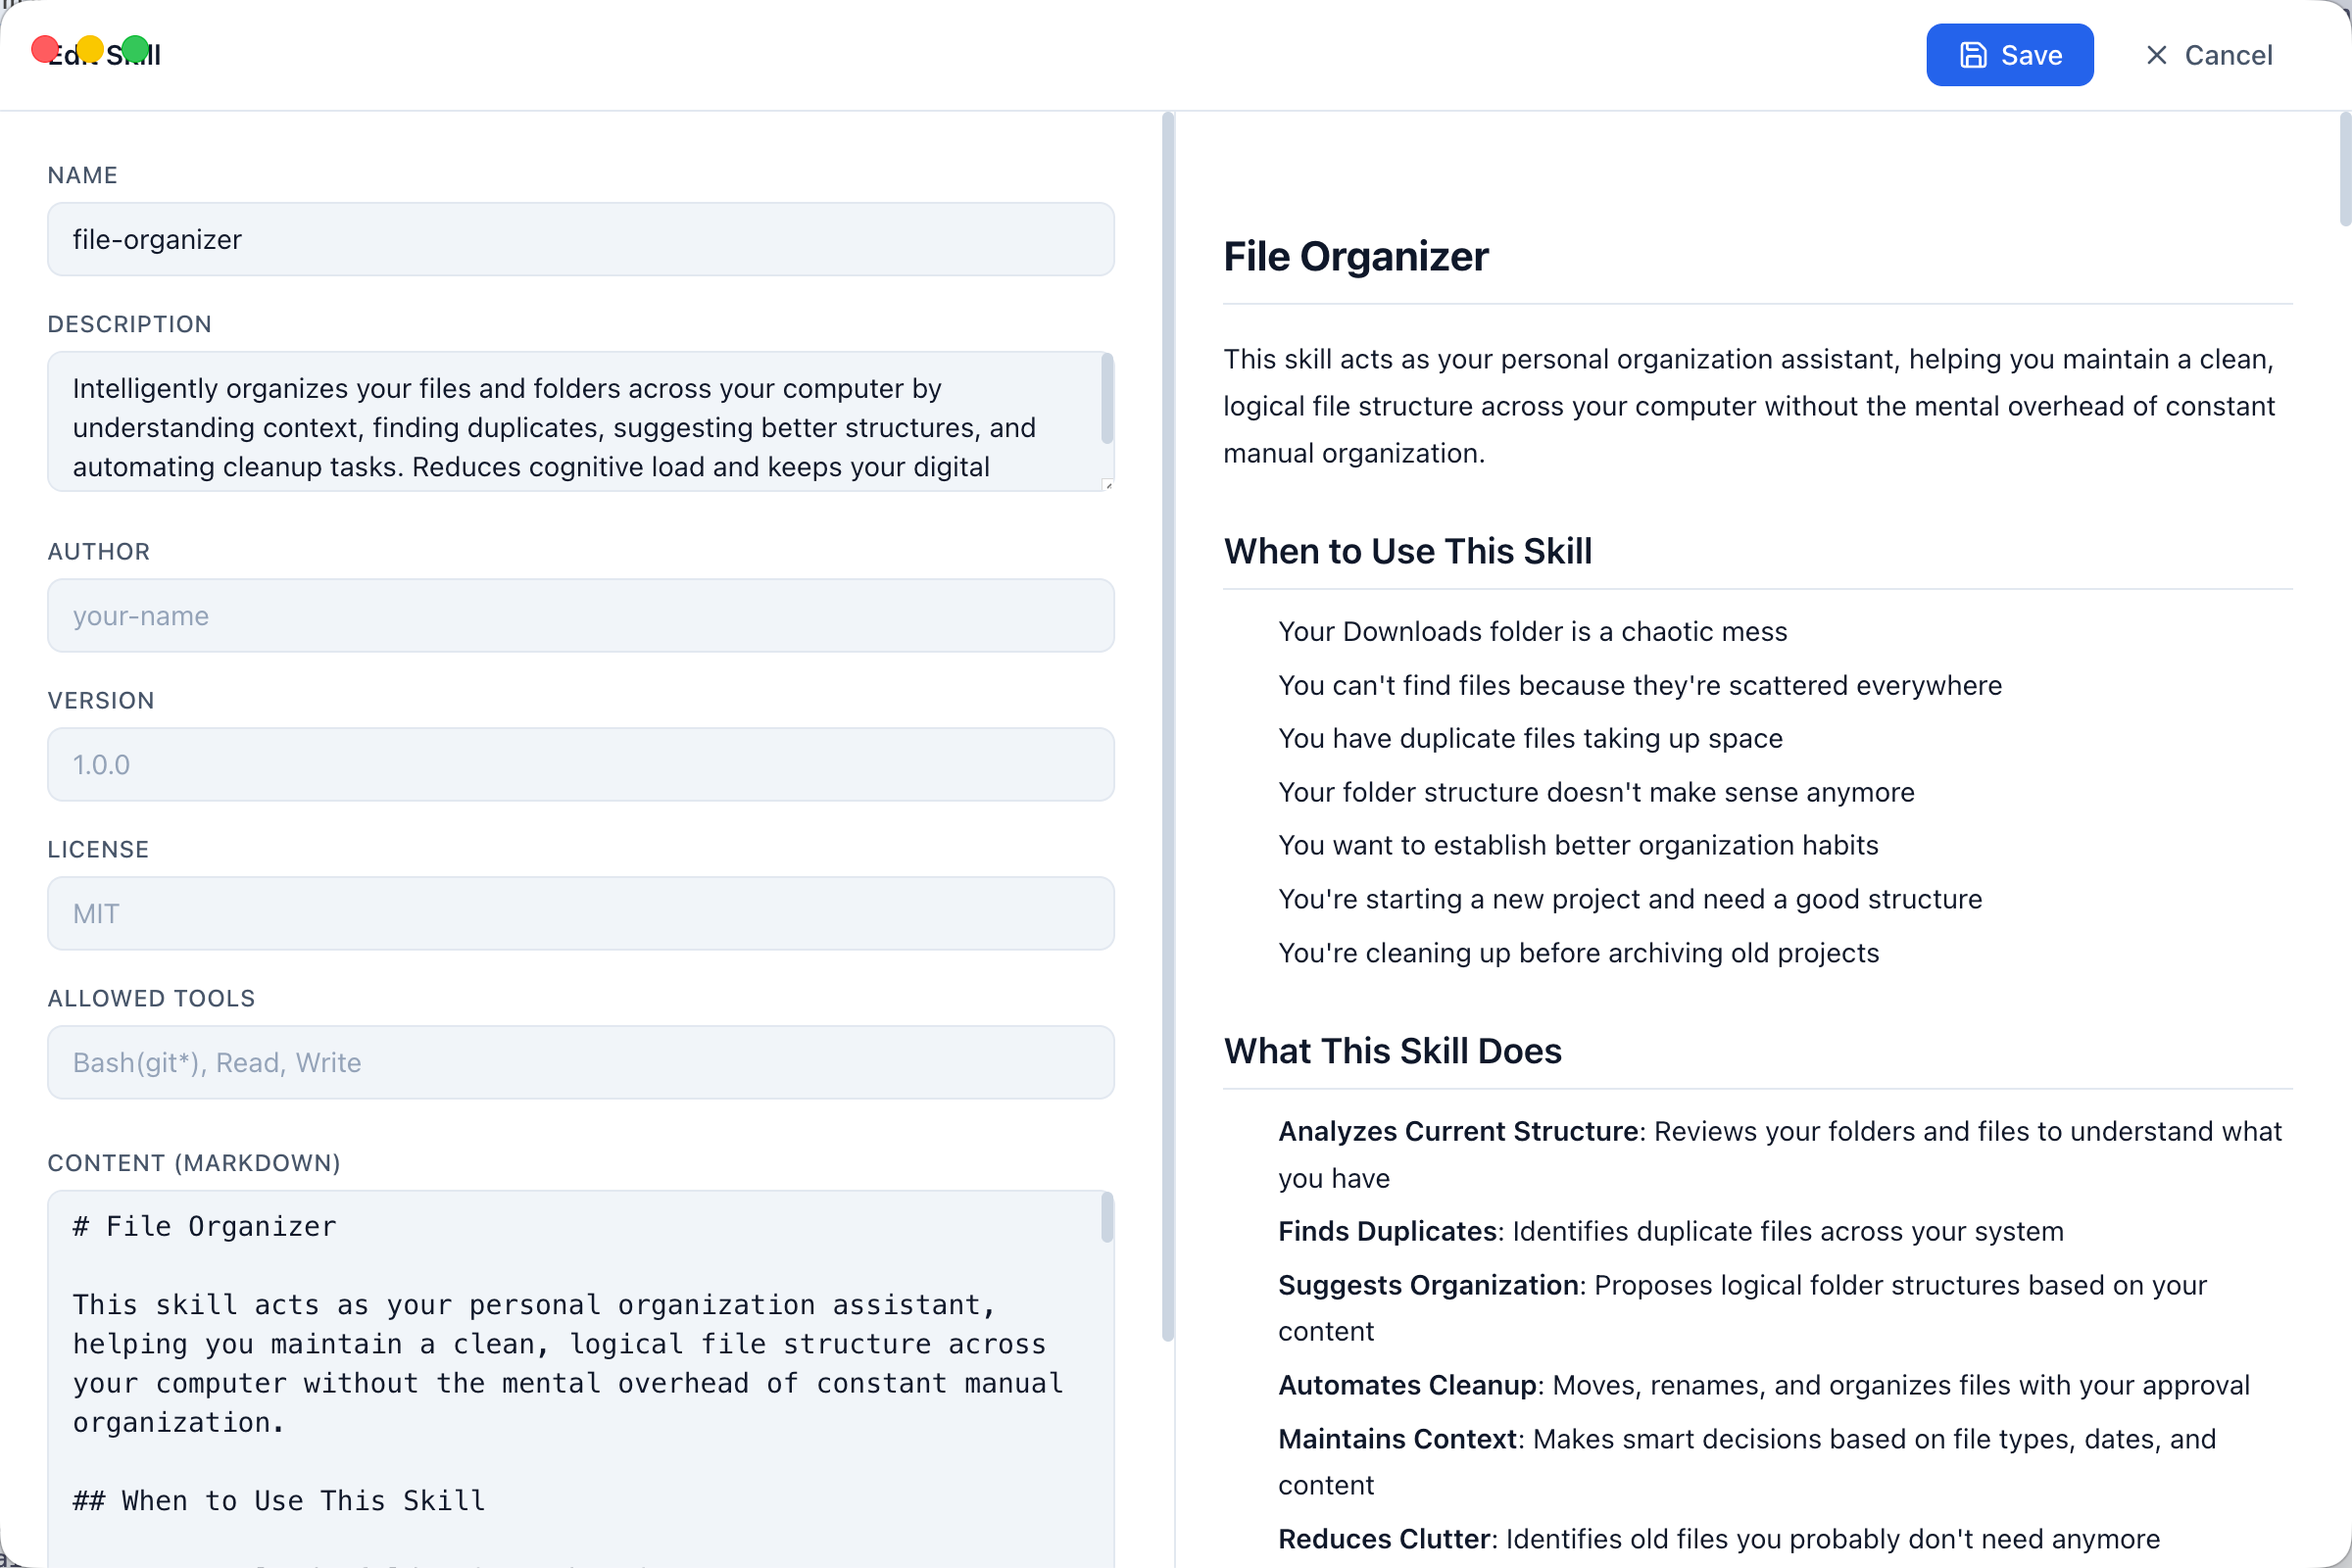
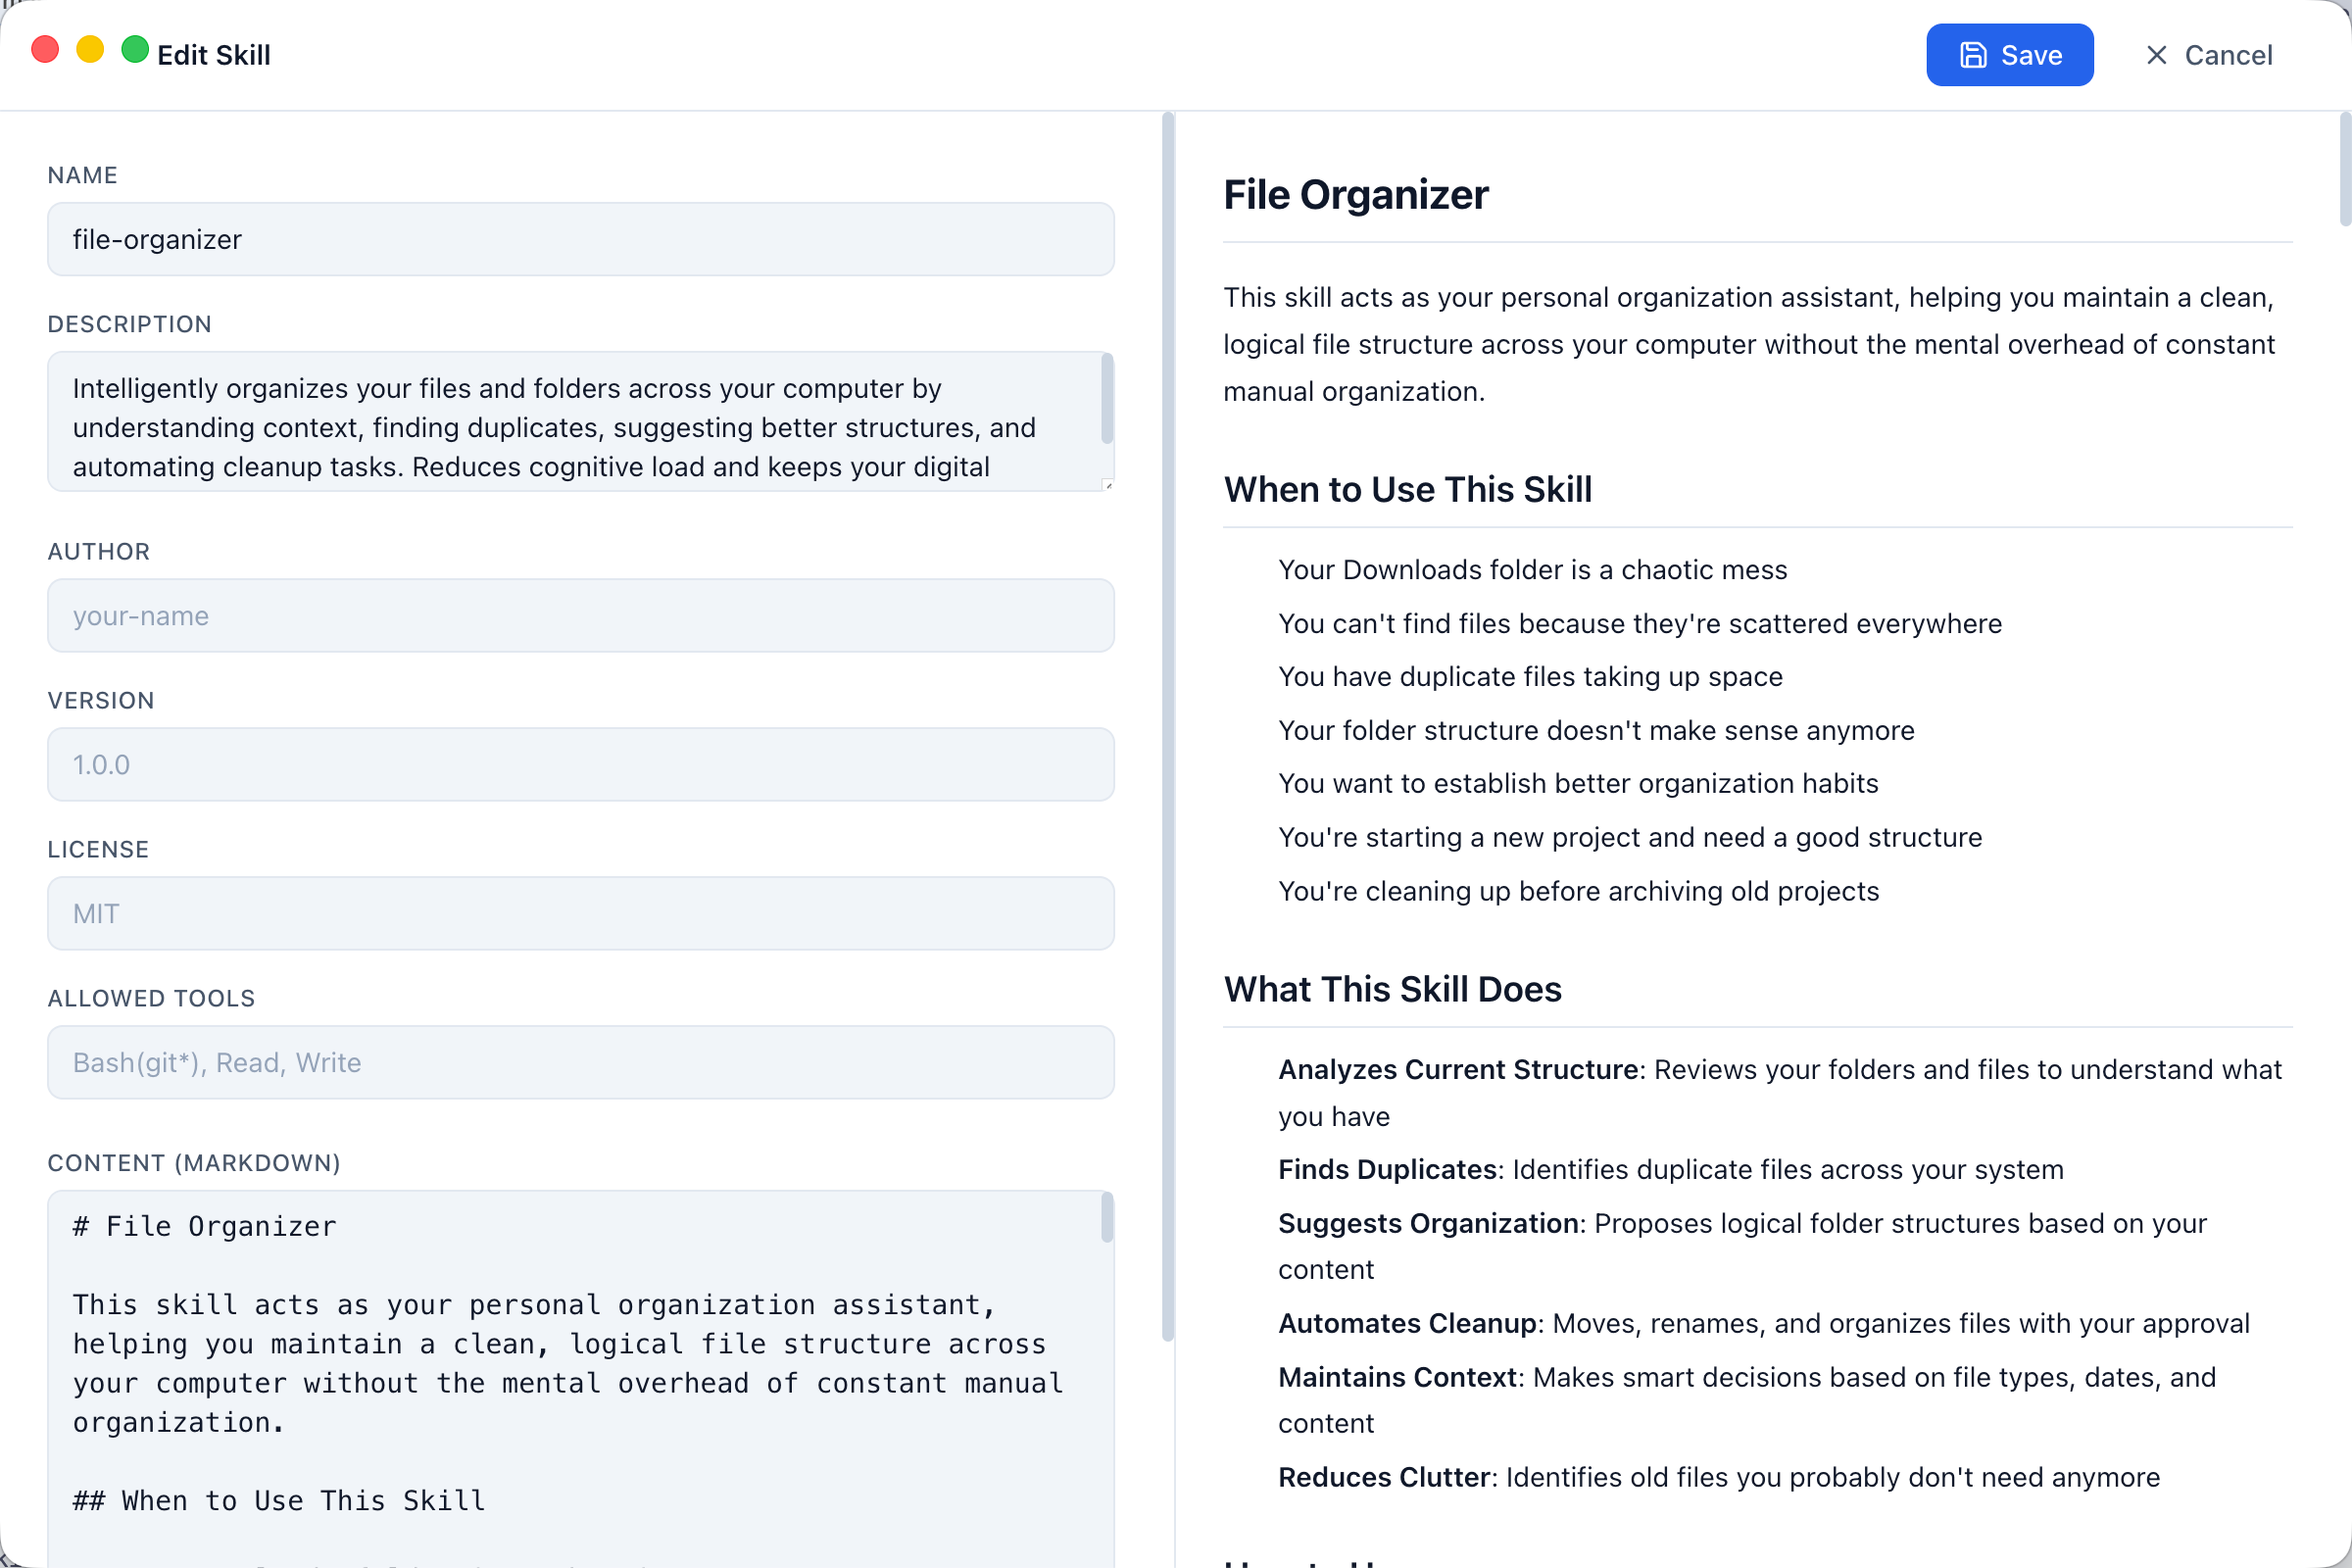
fix: prevent editor top bar from overlapping macOS traffic lights
Made-with: Cursor

Changed region(s): [[0.5, 0.0938, 0.9688, 1.0], [0.0625, 0.0312, 0.125, 0.0625]]

diff --git a/src/views/SkillEditorView.tsx b/src/views/SkillEditorView.tsx
@@ -66,7 +66,7 @@ export default function SkillEditorView({ skillId, onClose }: SkillEditorViewPro
   return (
     <div className="flex h-full flex-col">
       {/* Top Bar */}
-      <div className="flex items-center justify-between border-b border-border px-6 py-3">
+      <div className="flex items-center justify-between border-b border-border pl-20 pr-6 py-3">
         <h2 className="text-sm font-semibold text-text-primary">Edit Skill</h2>
         <div className="flex items-center gap-2">
           <button
